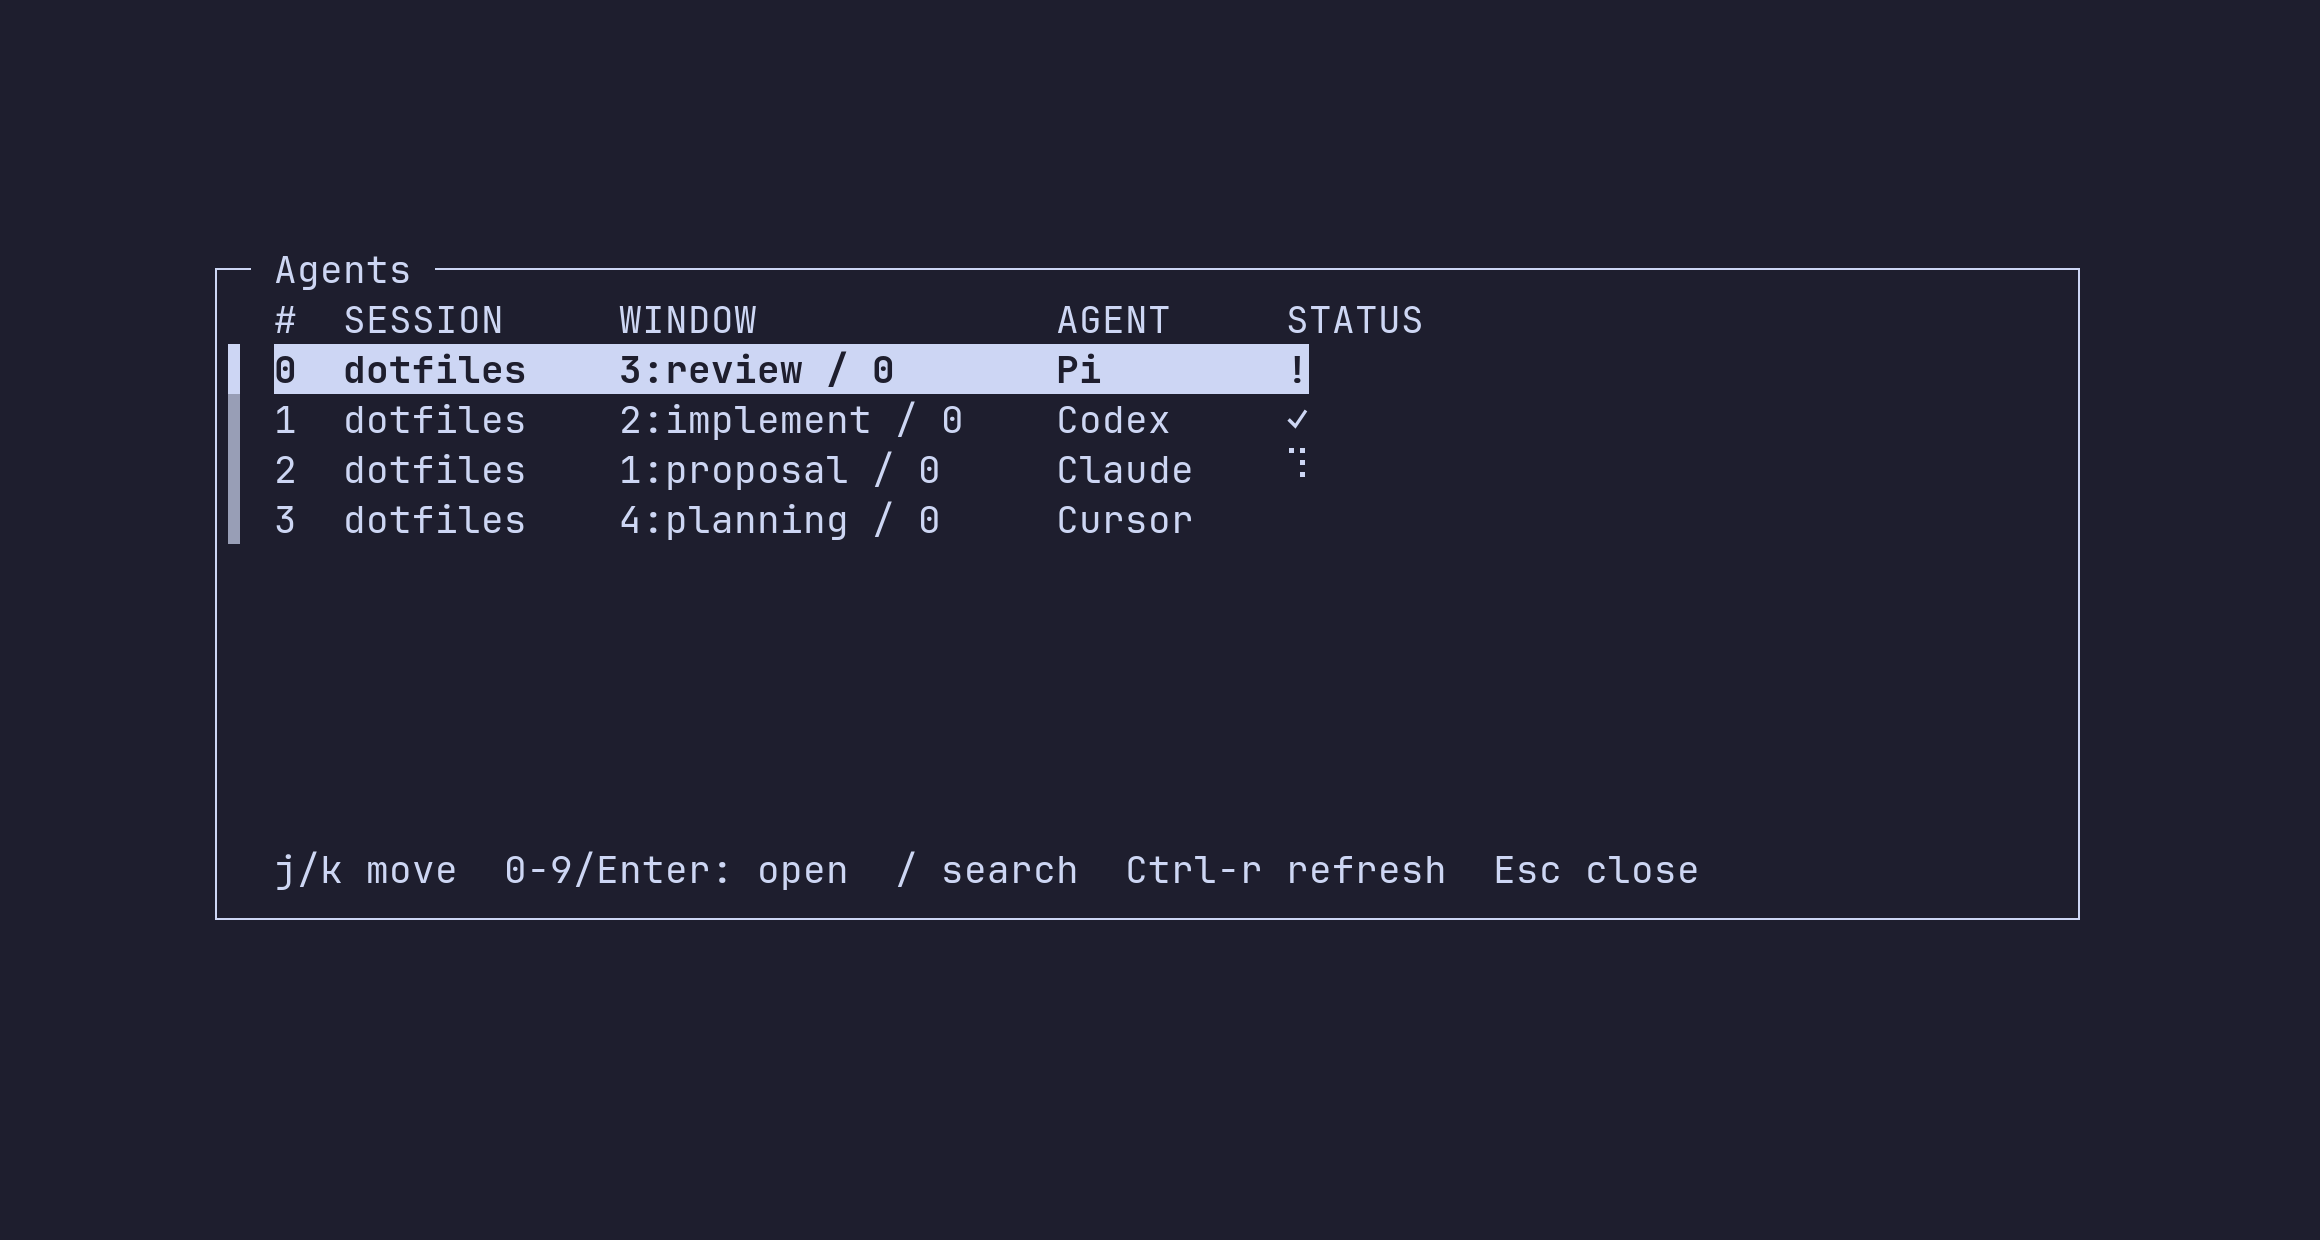
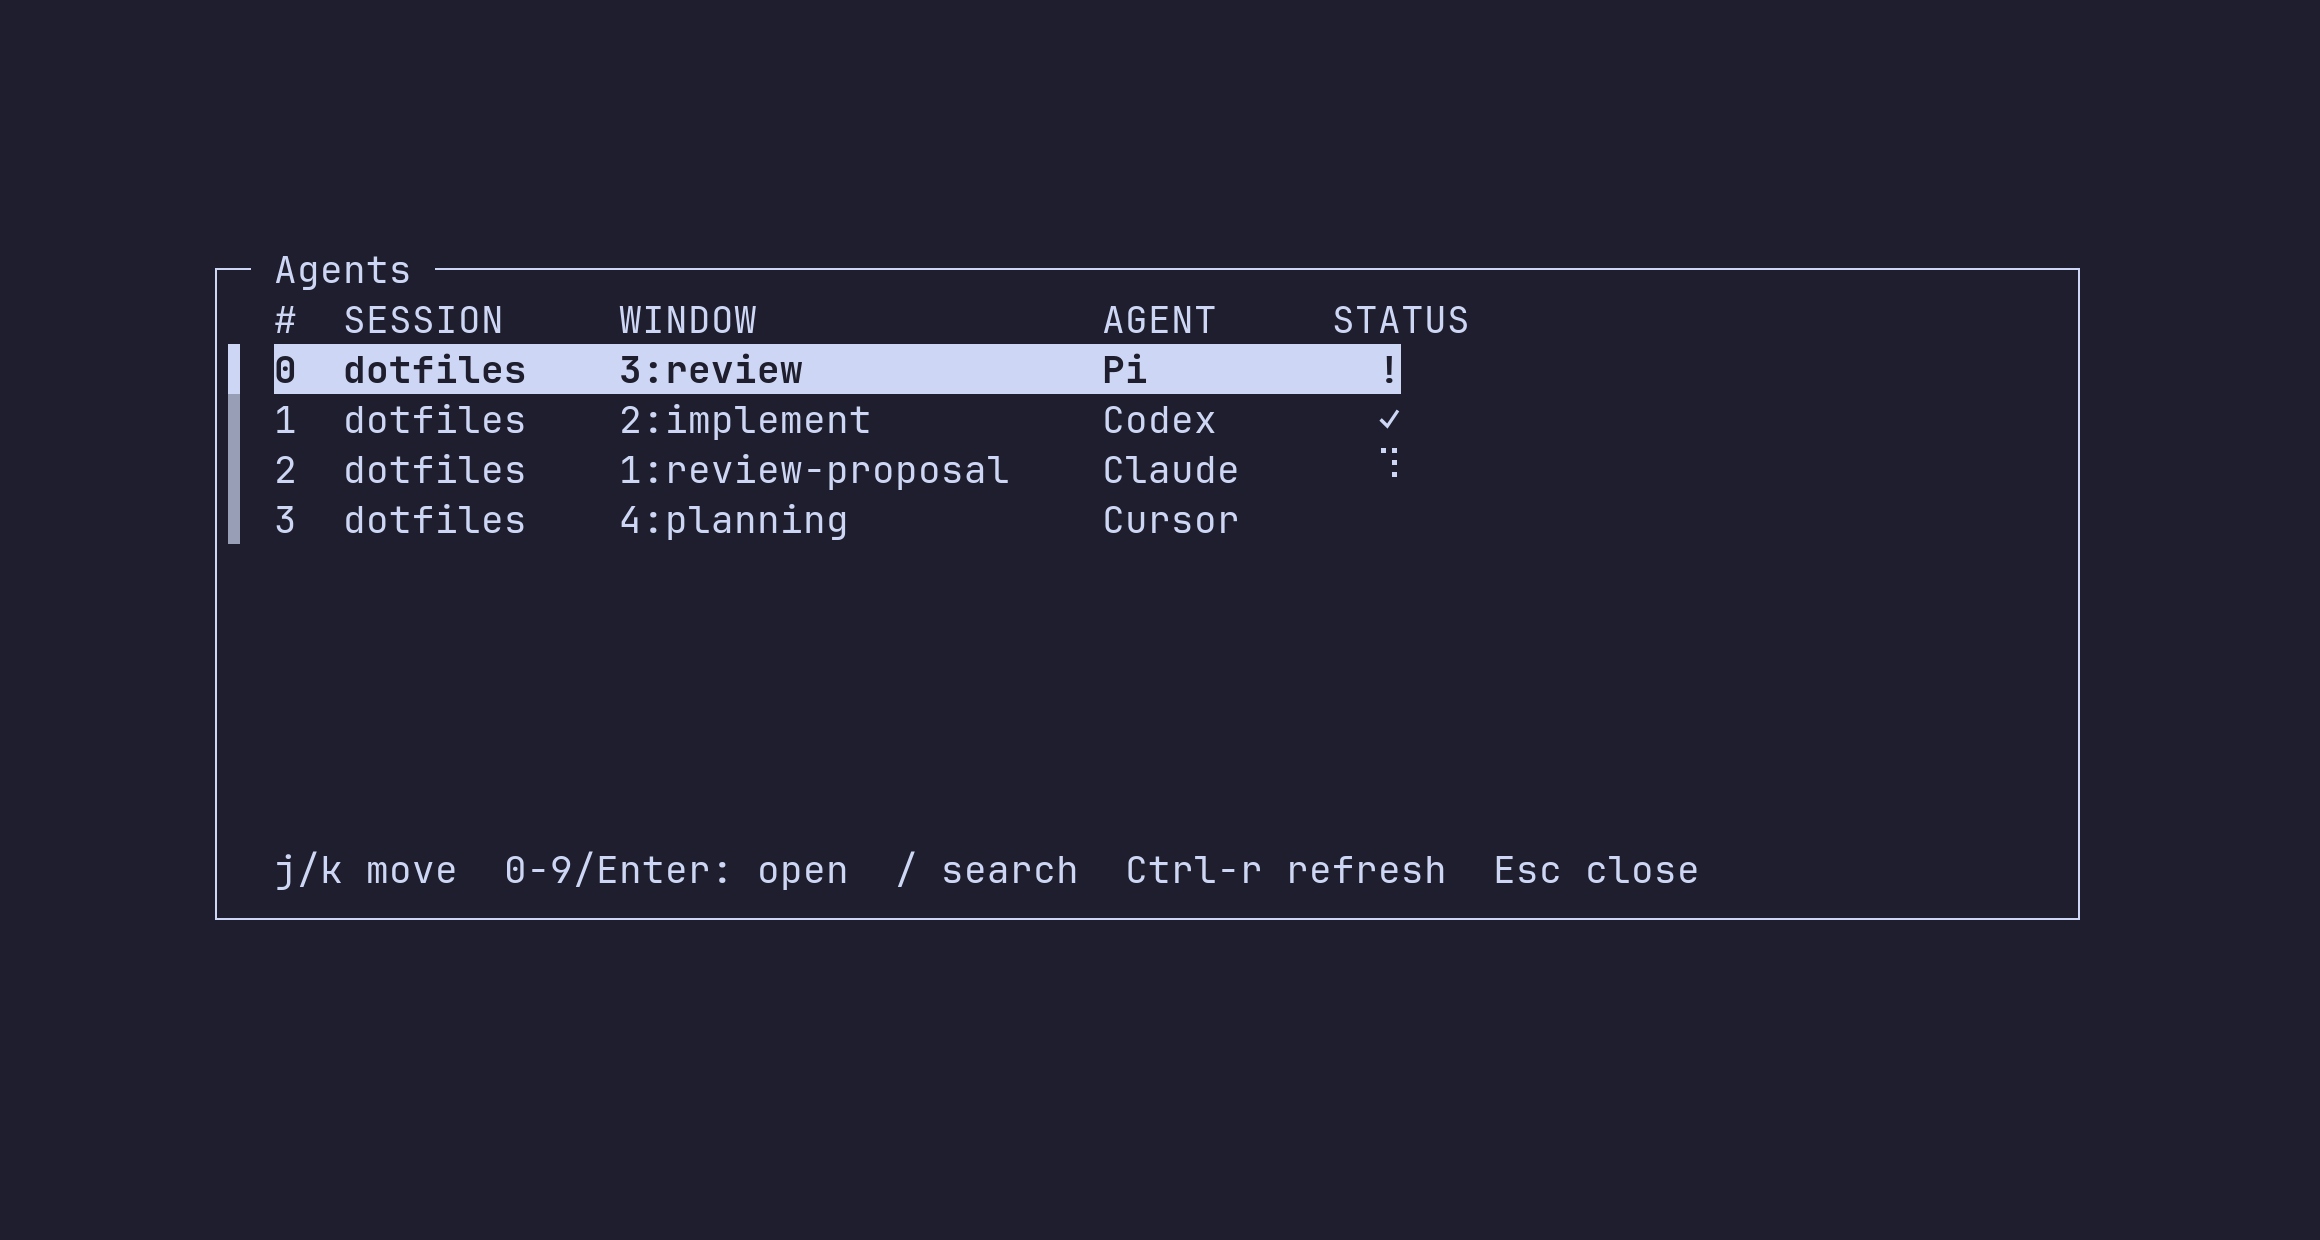
fix(no-ticket): align picker statuses and simplify window labels

diff --git a/docs/tmux-agent-attention.md b/docs/tmux-agent-attention.md
@@ -37,7 +37,7 @@ stops. The internal frame is not exported to new pane processes.
 ## Agent popup
 
 `prefix b` opens a centered, searchable list of AI panes across the current tmux
-server. The columns are **Session**, **Window** (including pane index), **Agent**,
+server. The columns are **Session**, **Window** (number and name), **Agent**,
 and **Status**, with a **#** column labeling number shortcuts. Help stays at the
 bottom, leaving the column headers above the list.
 
